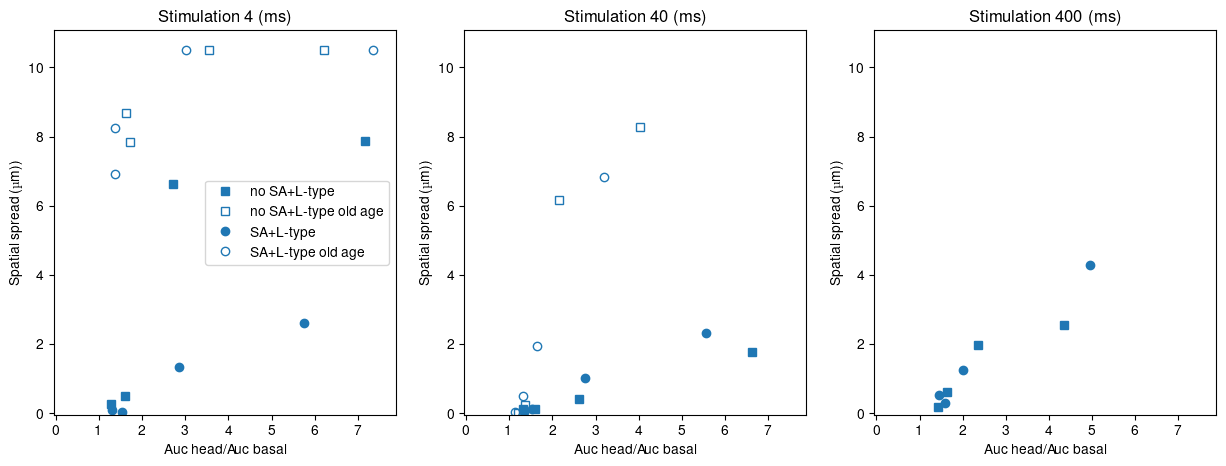
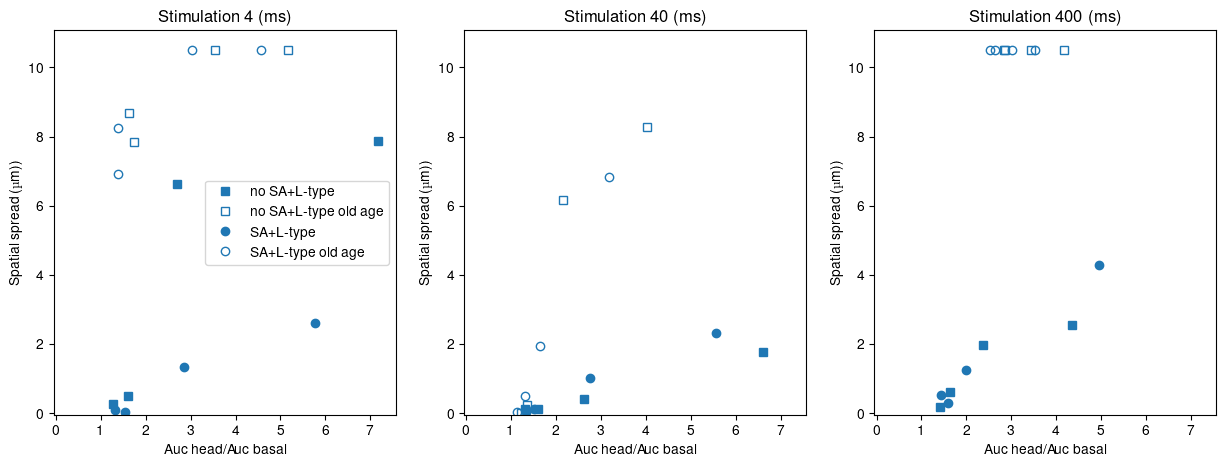
New run

diff --git a/scripts/spatial_spread_Ltype.py b/scripts/spatial_spread_Ltype.py
@@ -9,8 +9,8 @@ colors = {"1.2": 'tab:blue',
           "2.4": 'tab:purple',
           "6.0": 'tab:green'}
 
-file_no_ER_ctrl = os.path.join("..", "1_spine_different_Ca_amp",
-                                "model_1.2_um_dend_spine_%s_ms_%s.h5")
+file_no_ER_Ltype = os.path.join("..", "1_spine_different_Ca_amp_Ca_dend",
+                                "model_Ca_dend_1.2_um_dend_spine_%s_ms_%s.h5")
 file_dend_ER_ctrl = os.path.join("..", "1_spine_different_Ca_amp",
                                   "model_RyR2CaM_1.2_um_dend_spine_%s_ms_%s.h5")
 file_spine_ER_dend_ER = os.path.join("..", "1_spine_different_Ca_amp",
@@ -23,9 +23,9 @@ file_spine_ER_dend_ER_dend_Ca = os.path.join("..", "1_spine_different_Ca_amp_Ca_
                                       "model_Ca_dend_RyR2CaM_RyR3CaM_1.2_um_dend_spine_%s_ms_%s.h5")
 t_init = 3000
 output = "Ca"
-types = ["no SA no L-type", "no SA", "SA no L-type", "SA",]
-markers = ["s", "s", "o", "o"]
-fillstyles = ["none", "full", "none", "full"]
+types = ["no SA no L-type", "no SA", "SA no L-type", "SA", "no ER"]
+markers = ["s", "s", "o", "o", "*"]
+fillstyles = ["none", "full", "none", "full", "full"]
 stim_dict = {
     "4": ["01750", "03500", "07000", "10500"],
     "40": ["0175", "0350", "0700", "1050"],
@@ -39,7 +39,7 @@ spine_idx = 21
 if __name__ == '__main__':
     rollo = False
     dirs = [file_dend_ER_ctrl,file_dend_ER_dend_Ca, file_spine_ER_dend_ER,
-                                   file_spine_ER_dend_ER_dend_Ca]
+            file_spine_ER_dend_ER_dend_Ca, file_no_ER_Ltype]
     fig = utils.make_distance_figs(dirs, stim_dict, output, types, markers,
                        fillstyles, length=42, spine_idx=21, t_init=t_init)
     fig.savefig("Spatial_spread_Ltype_%s.png" % rollo, dpi=100, bbox_inches="tight")
